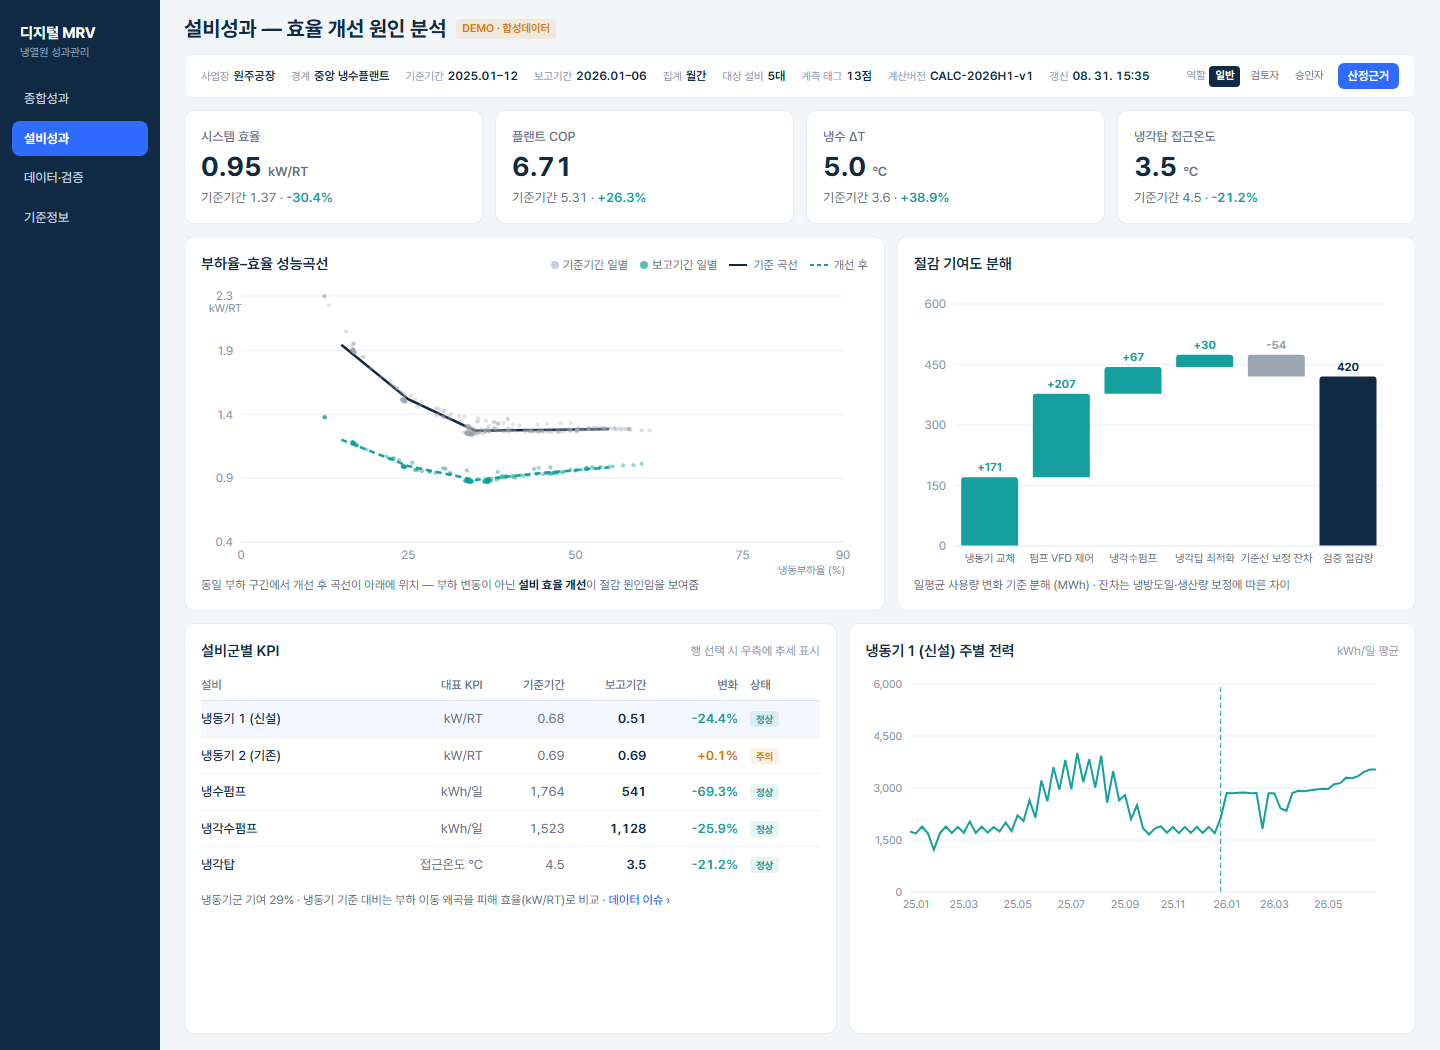
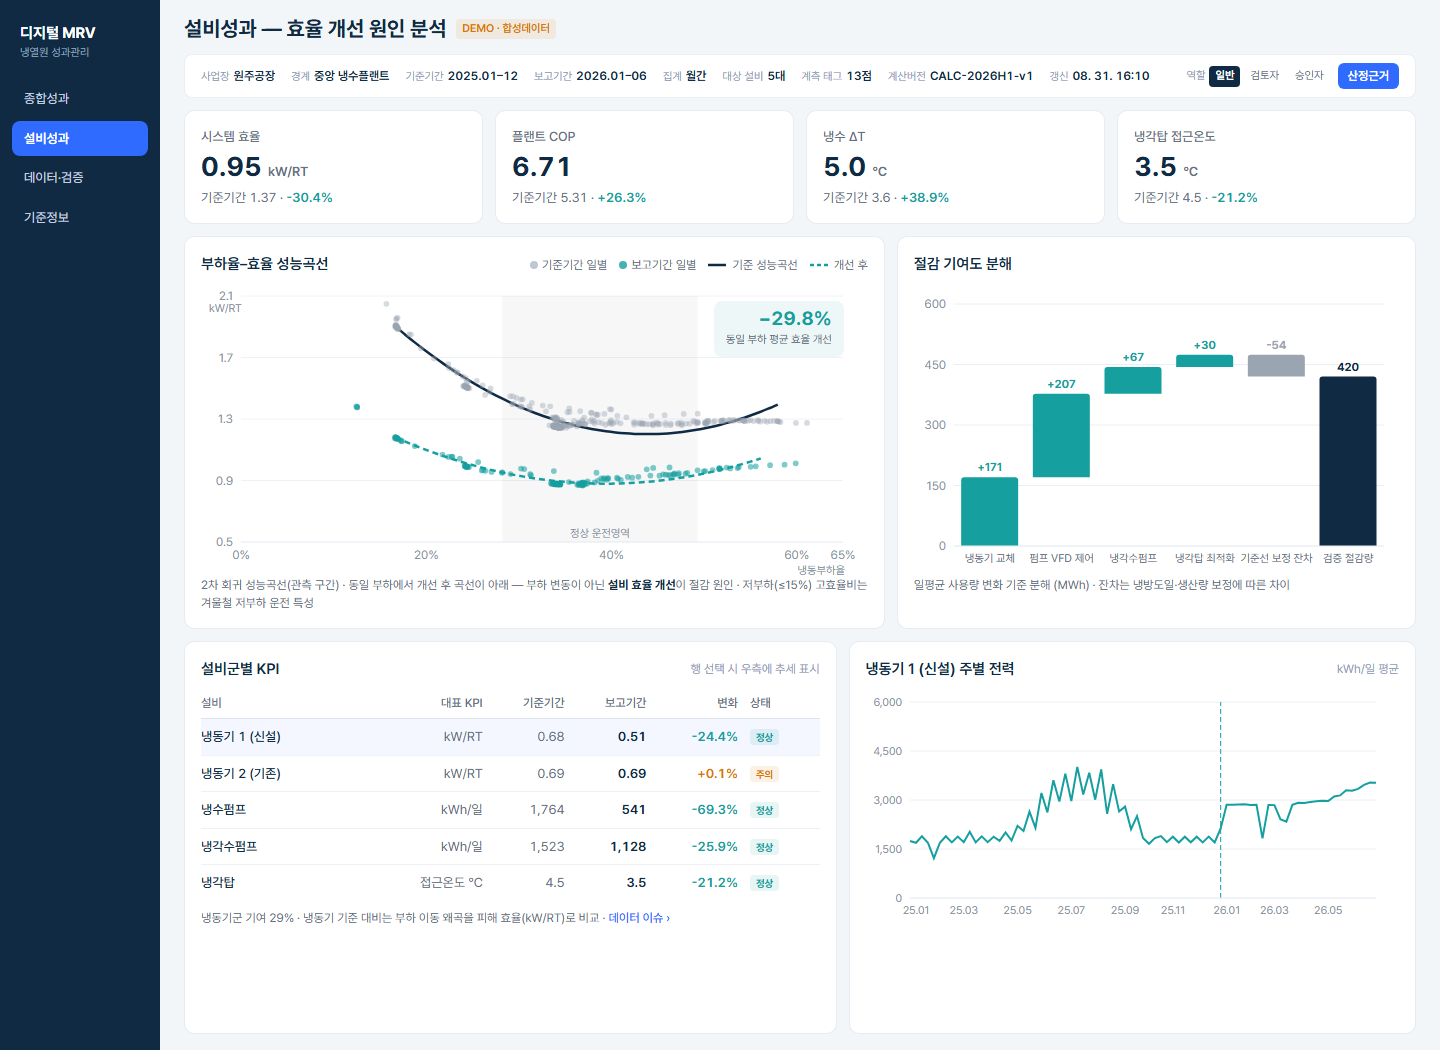
성능곡선 품질 개선: 2차 회귀 곡선·실데이터 축 범위·정상 운전영역 음영·동일 부하 개선율(-29.8%) 주석·산점 가독성

diff --git a/src/screens/EquipPerformance.tsx b/src/screens/EquipPerformance.tsx
@@ -11,6 +11,7 @@ import {
   Tooltip,
   ResponsiveContainer,
   ReferenceLine,
+  ReferenceArea,
   LabelList,
 } from "recharts";
 import { mrv, perfCurve, waterfall } from "../lib/mrvData";
@@ -130,39 +131,48 @@ export default function EquipPerformance() {
 
       {/* 부하율–효율 성능곡선 + 절감 기여도 Waterfall */}
       <section className="grid shrink-0 grid-cols-[1.35fr_1fr] gap-3">
-        <div className="rounded-[10px] border border-line/70 bg-white p-4">
+        <div className="relative rounded-[10px] border border-line/70 bg-white p-4">
           <div className="flex items-center justify-between">
             <div className="text-[15px] font-semibold text-navy">부하율–효율 성능곡선</div>
             <div className="flex items-center gap-3 text-[12px] text-body">
-              <span className="flex items-center gap-1"><span className="size-2 rounded-full bg-slate-400/50" /> 기준기간 일별</span>
-              <span className="flex items-center gap-1"><span className="size-2 rounded-full bg-teal/70" /> 보고기간 일별</span>
+              <span className="flex items-center gap-1"><span className="size-2 rounded-full bg-slate-400/60" /> 기준기간 일별</span>
+              <span className="flex items-center gap-1"><span className="size-2 rounded-full bg-teal/80" /> 보고기간 일별</span>
               <span className="flex items-center gap-1.5">
-                <svg width="18" height="6" aria-hidden><line x1="0" y1="3" x2="18" y2="3" stroke="#102a43" strokeWidth="2" /></svg>
-                기준 곡선
+                <svg width="18" height="6" aria-hidden><line x1="0" y1="3" x2="18" y2="3" stroke="#102a43" strokeWidth="2.5" /></svg>
+                기준 성능곡선
               </span>
               <span className="flex items-center gap-1.5">
-                <svg width="18" height="6" aria-hidden><line x1="0" y1="3" x2="18" y2="3" stroke="#159f9e" strokeWidth="2" strokeDasharray="4 3" /></svg>
+                <svg width="18" height="6" aria-hidden><line x1="0" y1="3" x2="18" y2="3" stroke="#159f9e" strokeWidth="2.5" strokeDasharray="4 3" /></svg>
                 개선 후
               </span>
             </div>
           </div>
+          {/* 동일 부하 개선율 주석 */}
+          <div className="pointer-events-none absolute top-16 right-10 z-10 rounded-lg bg-teal/8 px-3 py-2 text-right">
+            <div className="tnum text-[19px] leading-none font-bold text-teal">
+              −{fmt(perfCurve.sameLoadImprovePct * 100, 1)}%
+            </div>
+            <div className="mt-1 text-[11px] text-body">동일 부하 평균 효율 개선</div>
+          </div>
           <div className="h-[300px] pt-2">
             <ResponsiveContainer width="100%" height="100%">
               <ComposedChart margin={{ top: 12, right: 16, bottom: 4, left: 0 }}>
-                <CartesianGrid stroke="#eaeff5" vertical={false} />
+                <CartesianGrid stroke="#eef2f7" vertical={false} />
                 <XAxis
                   type="number"
                   dataKey="loadPct"
-                  domain={[0, 90]}
+                  domain={perfCurve.domainX}
                   tick={{ fontSize: 12, fill: "#8a94a6" }}
                   axisLine={{ stroke: "#eaeff5" }}
                   tickLine={false}
-                  label={{ value: "냉동부하율 (%)", position: "insideBottomRight", offset: -2, fontSize: 11, fill: "#8a94a6" }}
+                  tickFormatter={(v: number) => `${v}%`}
+                  label={{ value: "냉동부하율", position: "insideBottomRight", offset: -2, fontSize: 11, fill: "#8a94a6" }}
                 />
                 <YAxis
                   type="number"
                   dataKey="kwRT"
-                  domain={[0.4, 2.0]}
+                  domain={[0.5, 2.1]}
+                  allowDataOverflow
                   tick={{ fontSize: 12, fill: "#8a94a6" }}
                   axisLine={false}
                   tickLine={false}
@@ -170,17 +180,25 @@ export default function EquipPerformance() {
                   tickFormatter={(v: number) => v.toFixed(1)}
                   label={{ value: "kW/RT", position: "insideTopLeft", offset: 8, fontSize: 11, fill: "#8a94a6" }}
                 />
-                <ZAxis range={[14, 14]} />
+                <ZAxis range={[26, 26]} />
                 <Tooltip content={<CurveTooltip />} cursor={{ strokeDasharray: "3 3", stroke: "#c3cdd9" }} />
-                <Scatter data={perfCurve.points.filter((p) => p.period === "base")} fill="#9aa5b1" fillOpacity={0.3} isAnimationActive={false} />
-                <Scatter data={perfCurve.points.filter((p) => p.period === "rep")} fill="#159f9e" fillOpacity={0.45} isAnimationActive={false} />
-                <Line data={perfCurve.baseCurve} dataKey="kwRT" stroke="#102a43" strokeWidth={2.5} dot={false} isAnimationActive={false} />
-                <Line data={perfCurve.repCurve} dataKey="kwRT" stroke="#159f9e" strokeWidth={2.5} strokeDasharray="6 4" dot={false} isAnimationActive={false} />
+                <ReferenceArea
+                  x1={perfCurve.normalBand[0]}
+                  x2={perfCurve.normalBand[1]}
+                  fill="#102a43"
+                  fillOpacity={0.035}
+                  label={{ value: "정상 운전영역", position: "insideBottom", fontSize: 11, fill: "#8a94a6" }}
+                />
+                <Scatter data={perfCurve.points.filter((p) => p.period === "base")} fill="#9aa5b1" fillOpacity={0.4} isAnimationActive={false} />
+                <Scatter data={perfCurve.points.filter((p) => p.period === "rep")} fill="#159f9e" fillOpacity={0.55} isAnimationActive={false} />
+                <Line data={perfCurve.baseCurve} dataKey="kwRT" type="monotone" stroke="#102a43" strokeWidth={2.5} dot={false} isAnimationActive={false} />
+                <Line data={perfCurve.repCurve} dataKey="kwRT" type="monotone" stroke="#159f9e" strokeWidth={2.5} strokeDasharray="6 4" dot={false} isAnimationActive={false} />
               </ComposedChart>
             </ResponsiveContainer>
           </div>
           <div className="text-[12px] text-body">
-            동일 부하 구간에서 개선 후 곡선이 아래에 위치 — 부하 변동이 아닌 <b className="text-navy">설비 효율 개선</b>이 절감 원인임을 보여줌
+            2차 회귀 성능곡선(관측 구간) · 동일 부하에서 개선 후 곡선이 아래 — 부하 변동이 아닌{" "}
+            <b className="text-navy">설비 효율 개선</b>이 절감 원인 · 저부하(≤15%) 고효율비는 겨울철 저부하 운전 특성
           </div>
         </div>
 

diff --git a/src/lib/mrvData.ts b/src/lib/mrvData.ts
@@ -569,25 +569,55 @@ const loadPoints: LoadPoint[] = allDaily
     period: (d.date >= cfg.reportStart ? "rep" : "base") as "base" | "rep",
   }))
   .filter((p) => p.loadPct >= 5 && p.kwRT < 3);
-// 부하 구간(10%p 단위)별 평균 성능곡선
-const curveOf = (period: "base" | "rep") => {
-  const bins = new Map<number, { s: number; n: number }>();
-  for (const p of loadPoints.filter((x) => x.period === period)) {
-    const b = Math.floor(p.loadPct / 10) * 10 + 5;
-    const rec = bins.get(b) ?? { s: 0, n: 0 };
-    rec.s += p.kwRT;
-    rec.n++;
-    bins.set(b, rec);
-  }
-  return [...bins.entries()]
-    .filter(([, v]) => v.n >= 3)
-    .map(([b, v]) => ({ loadPct: b, kwRT: v.s / v.n }))
-    .sort((a, b) => a.loadPct - b.loadPct);
+// 기간별 2차 회귀 성능곡선: kW/RT = a + b·부하율 + c·부하율² (관측 5~95백분위 구간만 표시)
+const pctl = (arr: number[], q: number) => {
+  const s = [...arr].sort((a, b) => a - b);
+  return s[Math.min(s.length - 1, Math.floor(q * s.length))];
 };
+const fitCurve = (period: "base" | "rep") => {
+  const pts = loadPoints.filter((x) => x.period === period);
+  const fit = MRV.ols(pts.map((p) => [p.loadPct, p.loadPct * p.loadPct, p.kwRT]));
+  if (!fit) return [];
+  const loads = pts.map((p) => p.loadPct);
+  const lo = pctl(loads, 0.03);
+  const hi = pctl(loads, 0.985);
+  const out: Array<{ loadPct: number; kwRT: number }> = [];
+  for (let x = lo; x <= hi; x += (hi - lo) / 40) {
+    out.push({ loadPct: x, kwRT: fit.a + fit.b * x + fit.c * x * x });
+  }
+  return out;
+};
+const baseCurve = fitCurve("base");
+const repCurve = fitCurve("rep");
+// 동일 부하 구간(두 기간 공통 범위)에서의 평균 효율 개선율
+const overlapLo = Math.max(baseCurve[0]?.loadPct ?? 0, repCurve[0]?.loadPct ?? 0);
+const overlapHi = Math.min(
+  baseCurve[baseCurve.length - 1]?.loadPct ?? 0,
+  repCurve[repCurve.length - 1]?.loadPct ?? 0,
+);
+const curveAt = (curve: Array<{ loadPct: number; kwRT: number }>, x: number) => {
+  let best = curve[0];
+  for (const p of curve) if (Math.abs(p.loadPct - x) < Math.abs(best.loadPct - x)) best = p;
+  return best?.kwRT ?? 0;
+};
+let impSum = 0;
+let impN = 0;
+for (let x = overlapLo; x <= overlapHi; x += 2) {
+  const b = curveAt(baseCurve, x);
+  const r = curveAt(repCurve, x);
+  if (b > 0) {
+    impSum += (b - r) / b;
+    impN++;
+  }
+}
 export const perfCurve = {
   points: loadPoints,
-  baseCurve: curveOf("base"),
-  repCurve: curveOf("rep"),
+  baseCurve,
+  repCurve,
+  // 정상 운전영역: 보고기간 부하율 25~90백분위
+  normalBand: [pctl(loadPoints.filter((p) => p.period === "rep").map((p) => p.loadPct), 0.25), pctl(loadPoints.filter((p) => p.period === "rep").map((p) => p.loadPct), 0.9)] as [number, number],
+  sameLoadImprovePct: impN ? impSum / impN : 0,
+  domainX: [0, Math.ceil((pctl(loadPoints.map((p) => p.loadPct), 0.995) + 5) / 5) * 5] as [number, number],
 };
 
 // ---------- 절감 기여도 Waterfall (설비성과) ----------
